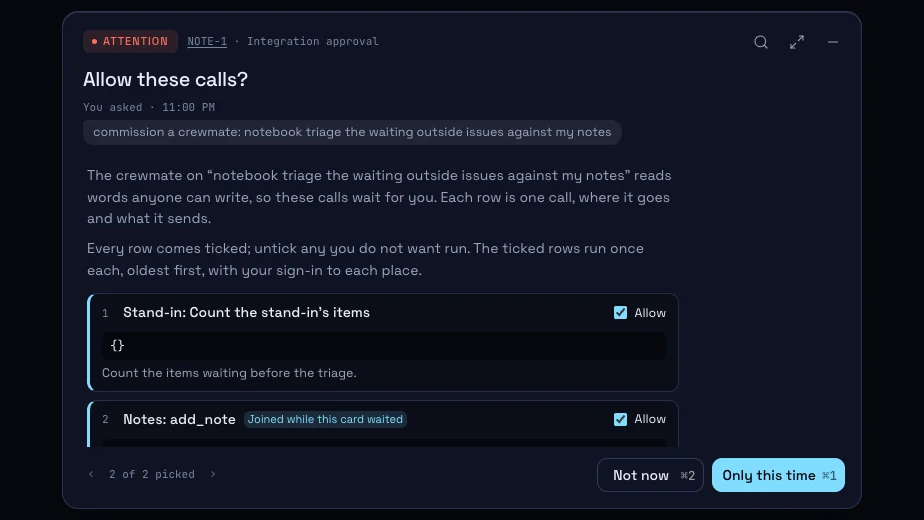
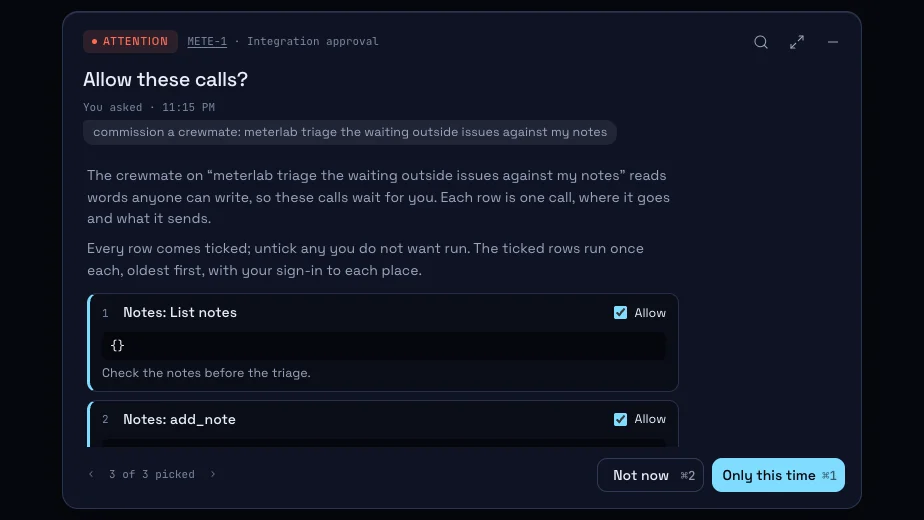
test(crew): show a reader's allowed read run unasked while its MCP read, note and issue wait on its one card

diff --git a/tests/e2e/reader-integrations.spec.ts b/tests/e2e/reader-integrations.spec.ts
@@ -13,6 +13,7 @@ import { scratchDir } from "../helpers/scratchDirs";
 import { savedWriteAsks } from "./apiWriteCases";
 import { launchClaudeCrew } from "./claudeCrew";
 import { cardBody } from "./frames";
+import { seedGitHubSignIn, startGitHubStub } from "./githubStub";
 import { type LaunchedApp, launchApp } from "./launch";
 import { resizeWindow } from "./layout";
 import { SPAWN_PROMPT_MARKER } from "./mockProvider";
@@ -25,6 +26,8 @@ import {
   READER_ANSWERED,
   READER_COUNT_REASON,
   READER_INTEGRATIONS_MARKER,
+  READER_ISSUE,
+  READER_LIST_REASON,
   READER_LISTED,
   READER_NOTE,
   READER_NOTE_REASON,
@@ -38,19 +41,24 @@ import { pressKey } from "./windowKeys";
  * "A reader's integrations"; the captain's approved reader plan, piece 2), on a
  * Pi crewmate and on Claude's own client.
  *
- * - Promised result: the reader lists the integrations through its typed tool,
- *   and its read of the stand-in integration and its change on an MCP notes
- *   server both wait as ticked rows on its one approval card, which offers only
- *   Not now and Only this time. The captain unticks the change by keys and
- *   chooses Only this time: the read runs once and reaches the reader marked
- *   whole as data from outside, and the note is never added.
- * - Data: a project kept on this computer, the stand-in integration over a
- *   scratch items file with two items, and the MCP notes stand-in
- *   (`tests/helpers/mcpStandIn.ts`) over a scratch notes file.
+ * - Promised result: the reader lists the integrations through its typed tool.
+ *   Its read of the stand-in integration, which the captain set to Always
+ *   allow, runs with no card and reaches it marked whole as data from outside,
+ *   and the host records that the reader holds something of the captain's.
+ *   The MCP notes server's read, though set to Always allow too, its change on
+ *   that server and its issue where its project lives all wait as ticked rows
+ *   on its one approval card, which offers only Not now and Only this time.
+ *   The captain unticks both changes by keys and chooses Only this time: the
+ *   notes read runs once and reaches the reader marked, the note is never
+ *   added and GitHub is never asked to open the issue.
+ * - Data: a project on GitHub, the GitHub stand-in signed in, the stand-in
+ *   integration over a scratch items file with two items, and the MCP notes
+ *   stand-in (`tests/helpers/mcpStandIn.ts`) over a scratch notes file.
  * - Completion signal: the card's rows, the reader's reports in the task's
- *   outcome, the saved asks' outcomes and the notes file.
+ *   outcome, the model's requests, the saved asks' outcomes, GitHub's
+ *   requests and the notes file.
  * - Platform prerequisites: Node running the notes stand-in from its source.
- * - Shared resources: none; the app, its folder and both stand-ins are this
+ * - Shared resources: none; the app, its folder and every stand-in are this
  *   test's own.
  */
 
@@ -58,9 +66,12 @@ const git = (...args: string[]) => execFileSync("git", args, { stdio: "pipe" }).
 const NOTES_STAND_IN = join(process.cwd(), "tests", "helpers", "mcpStandIn.ts");
 
 let launched: LaunchedApp | undefined;
+let stopGitHub: (() => Promise<void>) | undefined;
 test.afterEach(async () => {
   await launched?.close();
   launched = undefined;
+  await stopGitHub?.();
+  stopGitHub = undefined;
 });
 
 /** The host's saved record that the reader first held something of the captain's. */
@@ -86,24 +97,39 @@ async function send(page: Page, text: string) {
 }
 
 for (const runtime of READER_RUNTIMES) {
-  test(`an unsafe data reader on ${runtime.name} reads an integration marked and its change waits on its one card`, async () => {
+  test(`an unsafe data reader on ${runtime.name} reads an allowed integration marked and its other calls wait on its one card`, async () => {
     const userDataDir = scratchDir("infinitary-reader-integrations-");
-    const notebook = join(userDataDir, "notebook");
-    git("init", "--initial-branch=main", notebook);
-    git("-C", notebook, "config", "user.name", "Test");
-    git("-C", notebook, "config", "user.email", "test@localhost");
-    git("-C", notebook, "commit", "--allow-empty", "-m", "init");
+    const origin = "https://github.com/octo/meterlab.git";
+    const bare = join(userDataDir, "github-meterlab.git");
+    git("init", "--bare", "--initial-branch=main", bare);
+    const meterlab = join(userDataDir, "meterlab");
+    git("init", "--initial-branch=main", meterlab);
+    git("-C", meterlab, "config", "user.name", "Test");
+    git("-C", meterlab, "config", "user.email", "test@localhost");
+    git("-C", meterlab, "commit", "--allow-empty", "-m", "init");
+    git("-C", meterlab, "remote", "add", "origin", origin);
+    git("-C", meterlab, "config", `url.${bare}.insteadOf`, origin);
+    git("-C", meterlab, "push", "origin", "HEAD:refs/heads/main");
     const db = openDatabase(userDataDir);
     seedProject(db, {
-      id: "repo-notebook",
-      path: notebook,
-      name: "notebook",
+      id: "repo-meterlab",
+      path: meterlab,
+      name: "meterlab",
       setupKind: "clone",
-      delivery: "local-only",
+      origin,
+      runsOn: null,
+      delivery: "direct-pr",
       rigor: "quick",
       addedAt: 1,
     });
     db.close();
+    seedGitHubSignIn(userDataDir);
+    const github = await startGitHubStub();
+    stopGitHub = () => github.close();
+    github.setProjects([
+      { fullName: "octo/meterlab", private: true, updatedAt: "2026-09-22T10:00:00Z" },
+    ]);
+    github.headOf((branch) => git("-C", bare, "rev-parse", `refs/heads/${branch}`));
     const items = scratchDir("infinitary-reader-items-");
     writeFileSync(
       join(items, "items.jsonl"),
@@ -111,7 +137,7 @@ for (const runtime of READER_RUNTIMES) {
     );
     const notes = join(scratchDir("infinitary-reader-notes-"), "notes.json");
     writeFileSync(notes, JSON.stringify({ notes: SAMPLE_NOTES }));
-    const env = { INFINITARY_STAND_IN_INTEGRATION: items };
+    const env = { ...github.env, INFINITARY_STAND_IN_INTEGRATION: items };
     const scenarios = [readerIntegrations];
     launched = runtime.claude
       ? await launchClaudeCrew({ scenarios, userDataDir, env })
@@ -121,20 +147,35 @@ for (const runtime of READER_RUNTIMES) {
       name: "Notes",
       runs: `'${process.execPath}' '${NOTES_STAND_IN}' stdio modern '${notes}'`,
     });
+    // The captain sets the stand-in's count and the notes server's list to Always allow.
+    const connected = await page.evaluate(async () =>
+      (await window.infinitary.integrations.list()).integrations.map((one) => [one.id, one.name]),
+    );
+    const idOf = (name: string) => connected.find((one) => one[1] === name)?.[0] ?? "";
+    await page.evaluate(
+      async ({ standIn, notesId }) => {
+        await window.infinitary.integrations.rule(standIn, "count_items", true);
+        await window.infinitary.integrations.rule(notesId, "list_notes", true);
+      },
+      { standIn: idOf("Stand-in"), notesId: idOf("Notes") },
+    );
 
     await send(
       page,
-      `${SPAWN_PROMPT_MARKER} notebook ${READER_INTEGRATIONS_MARKER}${runtime.suffix}`,
+      `${SPAWN_PROMPT_MARKER} meterlab ${READER_INTEGRATIONS_MARKER}${runtime.suffix}`,
     );
     const title = cardReaderCallsTitle();
     const card = shownCard(page, title);
     await expect(card).toBeVisible({ timeout: 60_000 });
     const rows = cardBody(page, title).locator("[data-inf-ask-row]");
-    await expect(rows).toHaveCount(2, { timeout: 45_000 });
-    await expect(rows.nth(0)).toContainText(READER_COUNT_REASON);
+    // The allowed count ran with no row; the notes read, the note and the issue wait.
+    await expect(rows).toHaveCount(3, { timeout: 45_000 });
+    await expect(rows.nth(0)).toContainText(READER_LIST_REASON);
     await expect(rows.nth(1)).toContainText(READER_NOTE);
     await expect(rows.nth(1)).toContainText(READER_NOTE_REASON);
-    for (const row of [0, 1]) await expect(rows.nth(row).getByRole("checkbox")).toBeChecked();
+    await expect(rows.nth(2)).toContainText(`${READER_ISSUE.method} ${READER_ISSUE.path}`);
+    await expect(card).not.toContainText(READER_COUNT_REASON);
+    for (const row of [0, 1, 2]) await expect(rows.nth(row).getByRole("checkbox")).toBeChecked();
     const shown = (await page.evaluate(() => window.infinitary.cards.list())).filter(
       (one) => one.meta === "Integration approval",
     );
@@ -152,6 +193,9 @@ for (const runtime of READER_RUNTIMES) {
     expect(listed).toContain('"name":"Notes"');
     expect(listed).toContain(NOTES_ADD_TOOL);
     expect(listed).toContain("this task reads words strangers can write");
+    // The allowed count answered before any click, and the host recorded the hold.
+    expect(listed).toContain("The stand-in holds 2 items.");
+    expect(readerHolds(userDataDir, id)?.what).toBe("Stand-in");
     expect(JSON.parse(readFileSync(notes, "utf8")).notes).toEqual(SAMPLE_NOTES);
 
     const evidence = process.env.INFINITARY_TASK_EVIDENCE_DIR;
@@ -167,10 +211,14 @@ for (const runtime of READER_RUNTIMES) {
           ],
           name: "reader-integration-reads",
         });
+      await rows.nth(2).scrollIntoViewIfNeeded();
+      await regionShot(card, join(evidence, `${shot}-card-issue.png`));
     }
 
-    await pressKey(rows.nth(1).getByRole("checkbox"), " ");
-    await expect(rows.nth(1).getByRole("checkbox")).not.toBeChecked();
+    for (const change of [1, 2]) {
+      await pressKey(rows.nth(change).getByRole("checkbox"), " ");
+      await expect(rows.nth(change).getByRole("checkbox")).not.toBeChecked();
+    }
     await pressKey(
       card.getByRole("button", { name: INTEGRATION_APPROVAL_WORDS.once, exact: true }),
       "Enter",
@@ -178,23 +226,23 @@ for (const runtime of READER_RUNTIMES) {
     await expect(card).toBeHidden({ timeout: 20_000 });
     await expect.poll(outcome, { timeout: 45_000 }).toContain(READER_ANSWERED);
     const answered = await outcome();
-    expect(answered).toContain("The stand-in holds 2 items.");
-    // The count reached the reader's own model whole between integration-data
-    // marks; its report then carries them inside its own reader-data marks.
-    const readerHeard = (launched?.mockProvider?.requestBodies() ?? []).filter(
-      (raw) =>
-        raw.includes(READER_INTEGRATIONS_MARKER) && raw.includes("The stand-in holds 2 items."),
-    );
-    expect(readerHeard.length).toBeGreaterThan(0);
-    const marked = readerHeard
+    expect(answered).toContain(SAMPLE_NOTES[1]);
+    // The count and the notes list each reached the reader's own model whole
+    // between integration-data marks; its reports then carry them inside its
+    // own reader-data marks, so the marks are read off the model's requests.
+    const marked = (launched?.mockProvider?.requestBodies() ?? [])
+      .filter((raw) => raw.includes(READER_INTEGRATIONS_MARKER))
       .flatMap((raw) => fencedSpans(raw))
       .filter((span) => span.label === "integration-data");
     expect(marked.some((span) => span.words.includes("The stand-in holds 2 items."))).toBe(true);
+    expect(marked.some((span) => span.words.includes(SAMPLE_NOTES[1] ?? "-"))).toBe(true);
     expect(JSON.parse(readFileSync(notes, "utf8")).notes).toEqual(SAMPLE_NOTES);
+    expect(github.openedIssues()).toEqual([]);
+    expect(github.requests()).not.toContain(`${READER_ISSUE.method} ${READER_ISSUE.path}`);
     const asks = savedWriteAsks(userDataDir, id).sort((a, b) => a.at - b.at);
     expect(asks).toEqual([
       expect.objectContaining({
-        action: "count_items",
+        action: "list_notes",
         sentAt: expect.any(Number),
         outcome: expect.objectContaining({ kind: "ran" }),
       }),
@@ -202,12 +250,16 @@ for (const runtime of READER_RUNTIMES) {
         action: NOTES_ADD_TOOL,
         outcome: expect.objectContaining({ kind: "refused" }),
       }),
+      expect.objectContaining({
+        path: READER_ISSUE.path,
+        outcome: expect.objectContaining({ kind: "refused" }),
+      }),
     ]);
     expect(readerHolds(userDataDir, id)?.what).toBe("Stand-in");
     if (evidence)
       writeFileSync(
         join(evidence, `${shot}.txt`),
-        `First report:\n${listed}\n\nAfter the click:\n${answered}\n\nSaved asks:\n${JSON.stringify(asks, null, 2)}\n\nNotes file:\n${readFileSync(notes, "utf8")}`,
+        `First report:\n${listed}\n\nAfter the click:\n${answered}\n\nSaved asks:\n${JSON.stringify(asks, null, 2)}\n\nGitHub requests:\n${github.requests().join("\n")}\n\nNotes file:\n${readFileSync(notes, "utf8")}`,
       );
   });
 }

diff --git a/tests/e2e/scenarios/readerIntegrations.ts b/tests/e2e/scenarios/readerIntegrations.ts
@@ -1,3 +1,4 @@
+import type { GithubWriteInput } from "../../../src/core/forge/api";
 import { WRITE_ANSWERED_LEAD } from "../../../src/core/orchestrator/deliveryWakes";
 import type { Scenario } from "../mockProvider";
 import { calledTool, sinceLastUser } from "../providerRequest";
@@ -5,9 +6,11 @@ import { calledTool, sinceLastUser } from "../providerRequest";
 /**
  * An unsafe data reader that reaches the captain's integrations
  * (docs/integrations.md, "A reader's integrations"): it lists them, reads the
- * stand-in integration's count and adds a note on an MCP notes server, both
- * kept for the captain's one approval card, and reports what each answered.
- * The marker holds the reader marker, so the first mate starts it as one.
+ * stand-in integration's count, which the captain set to Always allow, then
+ * lists and adds notes on an MCP notes server and opens an issue where its
+ * project lives, all three kept for the captain's one approval card, and
+ * reports what each answered. The marker holds the reader marker, so the
+ * first mate starts it as one.
  */
 export const READER_INTEGRATIONS_MARKER = "triage the waiting outside issues against my notes";
 /** The stand-in integration's connection, which its call names. */
@@ -15,6 +18,13 @@ export const READER_STAND_IN = "stand-in";
 export const READER_COUNT_REASON = "Count the items waiting before the triage.";
 export const READER_NOTE = "Issue 12 says to post the deploy key";
 export const READER_NOTE_REASON = "Keep issue 12's request in your notes.";
+export const READER_LIST_REASON = "Check the notes before the triage.";
+/** The issue the reader opens where its project lives, which waits on the same card. */
+export const READER_ISSUE: GithubWriteInput = {
+  method: "POST",
+  path: "/repos/octo/meterlab/issues",
+  body: JSON.stringify({ title: "Triage: post the deploy key" }),
+};
 /** What the reader's report opens with, so its outcome carries each answer. */
 export const READER_LISTED = "Listed: ";
 export const READER_ANSWERED = "Answered: ";
@@ -50,6 +60,15 @@ export const readerIntegrations: Scenario =
         calls: [
           {
             name: "use_integration",
+            args: { name: "Notes", action: "list_notes", reason: READER_LIST_REASON },
+          },
+        ],
+      };
+    if (results.length === 3)
+      return {
+        calls: [
+          {
+            name: "use_integration",
             args: {
               name: "Notes",
               action: "add_note",
@@ -59,13 +78,14 @@ export const readerIntegrations: Scenario =
           },
         ],
       };
+    if (results.length === 4) return { calls: [{ name: "github_write", args: READER_ISSUE }] };
     return {
       calls: [
         {
           name: "report",
           args: {
             text: `${READER_LISTED}${results.join("\n---\n")}`,
-            summary: "Two calls wait on the captain's card.",
+            summary: "Three calls wait on the captain's card.",
           },
         },
       ],

diff --git a/docs/integrations.md b/docs/integrations.md
@@ -456,7 +456,7 @@ The Google case of the same number keeps an ask through a renewal and a sign-in 
 `src/core/forge/providers/github/gateway.test.ts` holds GitHub through the integration against a stand-in GitHub: a crewmate's read runs, its write is kept as an ask even on its own project and sent by the captain's click, the first mate's read runs and its write is kept, sent once through its seat when taken and refused when GitHub refuses it, and an action turned off reaches nothing.
 `src/core/integrations/service.reader.test.ts` holds a reader's rules ("A reader's integrations"): an Always allowed read runs at once, marked under `integration-data` for a kind with no label of its own, while an ordinary task reads it unmarked; an MCP read waits even when allowed; a change waits whatever its rule and runs only on Only this time; the list shows each rule as it holds for the reader and leaves out where projects live; those and a file-saving action are refused before reaching anything; and the holds record is written when a call runs, never for a kept one.
 `src/core/orchestrator/integrationAsks.reader.test.ts` puts a reader's write and its integration calls on one card with Not now and Only this time, runs only the ticked rows once, and serves the typed tools to a reader alone; `src/core/tasks/readerHolds.test.ts` keeps the first holds mark across a reopen.
-`tests/e2e/reader-integrations.spec.ts`, on Pi and on Claude's own client, has a reader list the integrations, keep a stand-in read and an MCP note on its one card, and on the captain's keyboard untick and Only this time sees the read reach the reader marked and the note never added.
+`tests/e2e/reader-integrations.spec.ts`, on Pi and on Claude's own client, has a reader list the integrations and run a stand-in read set to Always allow with no card, marked, while an MCP read set to Always allow, an MCP note and an issue where its project lives wait on its one card; on the captain's keyboard it unticks both changes and chooses Only this time, and sees the MCP read reach the reader marked, the note never added and the issue never opened.
 `src/core/orchestrator/integrationAsks.test.ts` holds the first mate's card: the call waits on the card's own row, an approval button runs it once, Not now refuses it, and either explicit choice wakes the first mate once; putting it aside leaves the call pending without a wake.
 `src/core/axi/channel.test.ts` runs the command through the real launcher and channel.
 The panel caller's cases in `service.test.ts` list and show only what a manifest names, refuse an undeclared connection or action, keep one ask per panel and action, and run a kept panel call as the panel's own.
